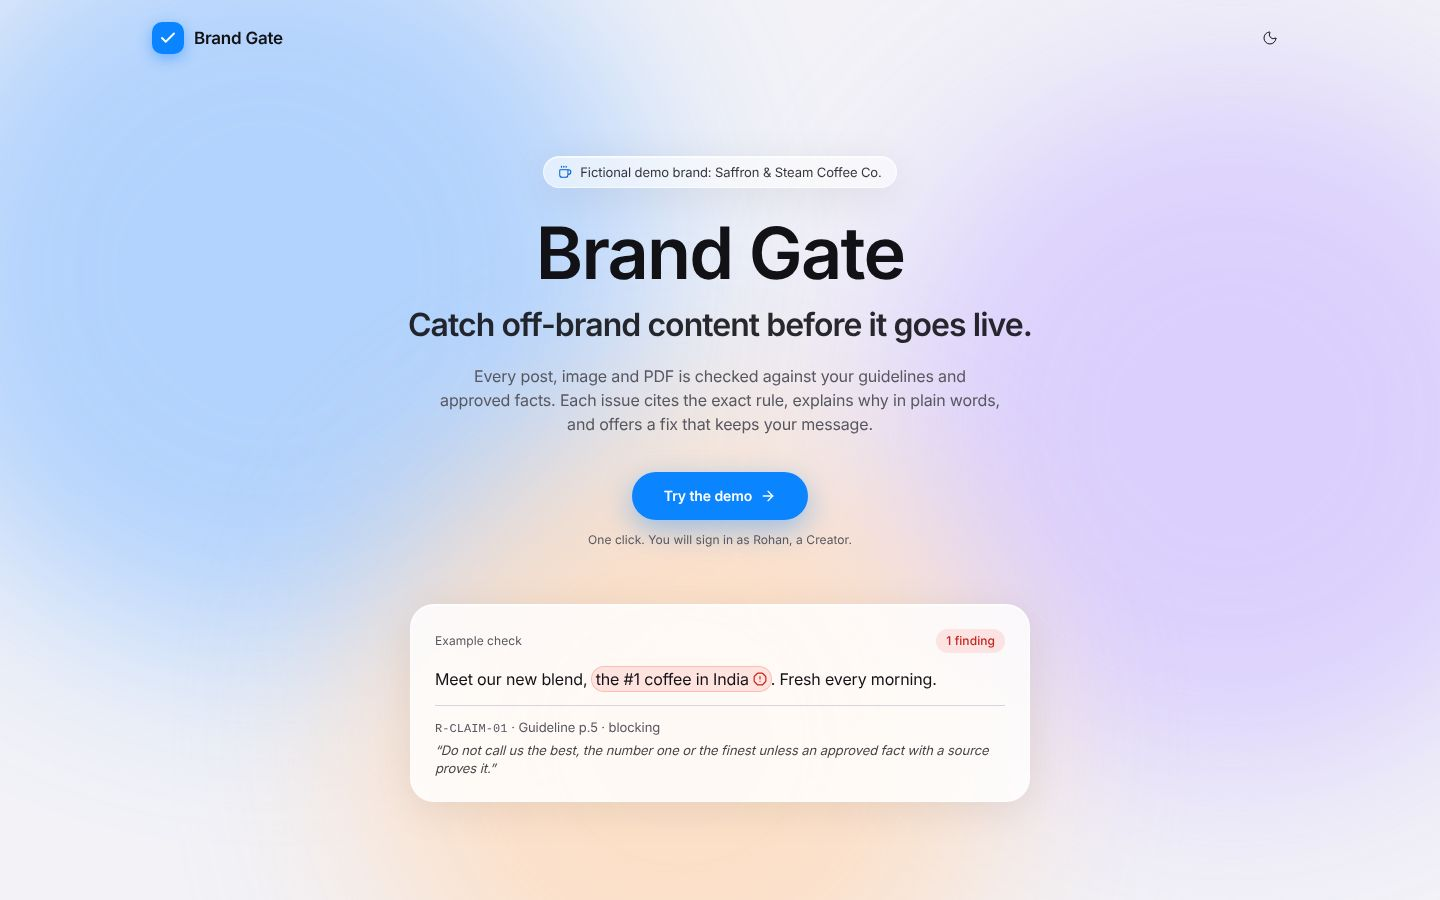
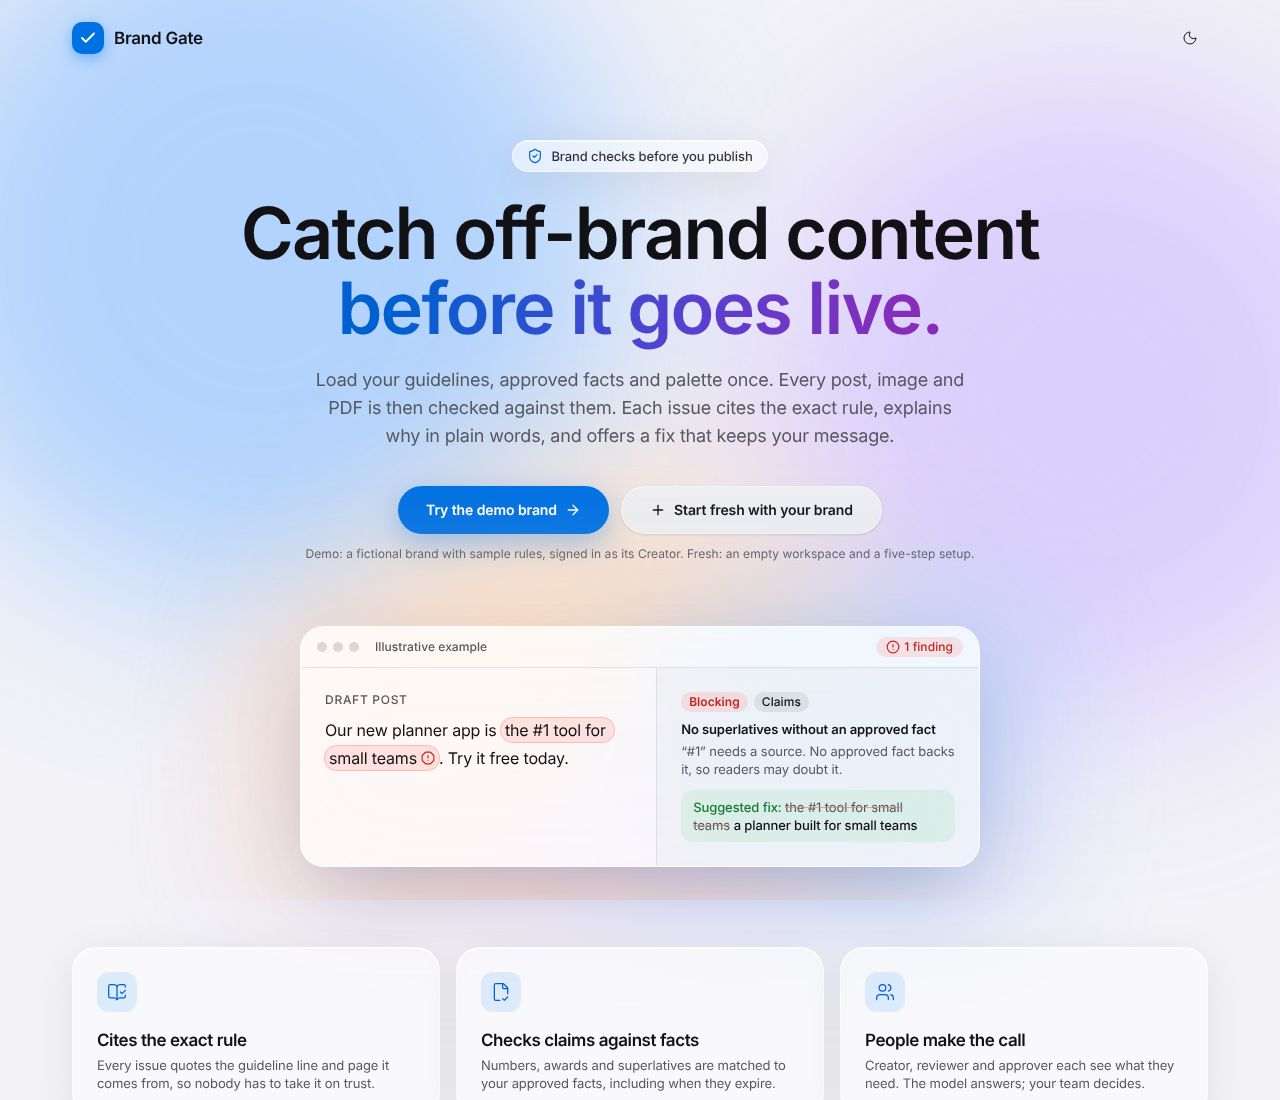
docs: README and NOTICE match the live build (workspaces, start fresh, Render, credits)

Changed region(s): [[0.0, 0.1244, 0.9062, 1.0], [0.0312, 0.0, 0.1875, 0.0622], [0.875, 0.7156, 0.9688, 0.7778]]

diff --git a/README.md b/README.md
@@ -6,13 +6,13 @@ A company loads its brand rules, approved facts, colour palette and logo once. E
 
 Built for CodeNexus India 2026, problem statement by Inkloom AI (brand-governance platform).
 
-Live app: <link added at deployment>
+Live app: https://brand-gate.onrender.com (free hosting: if it has been idle, the first page can take about a minute to wake up)
 
 ## 60-second judge walkthrough
 
-Use a private window, so you start signed out.
+Use a private window, so you start signed out. Every visitor gets a private workspace (its own copy of the data), so nothing you do is seen by other judges, and **Reset** only resets yours.
 
-1. Click **Try the demo**. This signs you in as Rohan (Creator) and opens a flawed Instagram caption on the New content page.
+1. Click **Try the demo brand**. This signs you in as Rohan (Creator) of a fictional demo brand and opens a flawed Instagram caption on the New content page.
 2. Click **Check**. The live meter runs, and findings stream in with their band, probability, rule ID and page.
 3. Open a finding and accept its fix. The fix shows as a before and after diff, with a "verified" badge when the self-check passed.
 4. Click **Resubmit as version 2**. The accepted fixes are applied and the check runs again. The version has fewer findings, and the diff shows what changed.
@@ -21,6 +21,20 @@ Use a private window, so you start signed out.
 7. Switch role to **Kabir** (Approver) and click **Approve**.
 8. Still as Kabir, open the seeded item he created and try to approve it. The button is disabled, and the server refuses with a message.
 9. Open the **Dashboard** (counts and charts from the seeded data and your check), the **Brand Kit** (rules, words, palette and logo, facts) and the **Evaluation** page (results from the last evaluation run).
+
+### Try it with your own brand
+
+Click **Start fresh with your brand** on the landing page. You get an empty workspace and a five-step setup, all optional:
+
+1. Name, tagline and a one-line description.
+2. Colours (pickers or hex) and your logo (PNG or JPEG). The logo is used by the logo check.
+3. Rules: import your guideline PDF (rules are proposed with the quote and page, and each quote is checked against the PDF text), add a 7-rule starter set, or write your own.
+4. Approved facts: upload a CSV (`statement,value,source,valid_until`; a template is offered) or add them one by one.
+5. Banned and preferred words.
+
+Then check your first post. A brand with no rules still gets the word, fact and logo checks, and the item says "Add rules first".
+
+![Setup: colours and logo](docs/screenshots/setup.jpg)
 
 ## What it checks
 
@@ -103,7 +117,7 @@ Open http://localhost:5173. Run the unit tests from `backend/` with `pytest -q`.
 
 ### Environment variables
 
-Names only, from `.env.example`. Set them in `.env` locally, or as secrets on a Hugging Face Space.
+Names only, from `.env.example`. Set them in `.env` locally, or as secret environment variables on your host (the live app runs on Render).
 
 - `TYPESAFE_API_KEY`: Jev key. The SDK reads it automatically.
 - `TYPESAFE_DEFAULT_MODEL`: Jev model name.
@@ -113,6 +127,8 @@ Names only, from `.env.example`. Set them in `.env` locally, or as secrets on a 
 - `SESSION_SECRET`: a long random string. The development default is not safe.
 - `DB_PATH`, `UPLOAD_DIR`: where the SQLite file and uploads are stored.
 - `SEED_DIR`, `FRONTEND_DIST`: optional overrides.
+- `WORKSPACES_DIR`, `MAX_WORKSPACES`, `WORKSPACE_TTL_H`: where per-visitor workspaces live, how many are kept, and how long an idle one lasts.
+- `MAX_CONCURRENT_CHECKS`, `JEV_CONCURRENCY`, `IMAGE_MAX_SIDE`, `SIFT_MAX_SIDE`, `PRERUN_DELAY_S`: memory and speed limits for a small server.
 
 Without `TYPESAFE_API_KEY`, the app still runs. Tier 0 and the local image checks work, and the UI shows a "Jev not configured" notice. Without the LLM key, findings still appear, with template explanations and no rewritten fixes.
 
@@ -135,7 +151,7 @@ The run calls Jev, so set `TYPESAFE_API_KEY` first. It writes `backend/app/eval/
 - **Writing model:** any OpenAI-compatible chat API, through the `openai` Python client. Used only for explanations, fixes and rule extraction.
 - **Files and checks:** pdfplumber (PDF text with page numbers), Pillow and numpy (colours), OpenCV headless, textstat with pyphen (readability), rapidfuzz (quote and fact matching).
 - **Frontend:** React 18, Vite, TypeScript, Tailwind CSS, shadcn/ui, Magic UI, framer-motion, recharts, lucide-react, Inter.
-- **Deployment:** one Docker image (Node 20 builds the frontend, Python 3.12 runs the app) on port 7860. Hugging Face Spaces (Docker SDK).
+- **Deployment:** one Docker image (Node 20 builds the frontend, Python 3.12 runs the app) on port 7860. The live app runs on Render's free tier (512 MiB), with one uvicorn worker.
 
 ## Privacy and responsible AI
 
@@ -149,12 +165,12 @@ The run calls Jev, so set `TYPESAFE_API_KEY` first. It writes `backend/app/eval/
 
 ## Limitations
 
-- **Demo data resets.** Data lives in a SQLite file on the server. A restart or a reset loads the seeded demo data again. On a Hugging Face Space, a restart wipes everything.
-- **Demo sign-in only.** There are no real accounts. Sign-in uses demo users, and the session token is kept in the browser's session storage.
+- **Workspaces are temporary.** Each visitor's workspace is a SQLite file on the server. It is deleted after 12 idle hours, and the free host wipes all of them when it restarts or sleeps after 15 idle minutes. The demo brand is rebuilt automatically.
+- **Demo sign-in only.** There are no real accounts. Sign-in uses demo users per workspace, and the tokens are kept in the browser's session storage and a cookie.
 - **Scanned PDFs are not read.** A PDF with no text layer gets a "No text found" message.
 - **Image judging is early.** Jev's image support is early-stage. If an image call fails, the image gets code-only checks and the finding says so.
 - **Logo authenticity is not checked by Jev.** Jev has no copy of the official logo, so a redrawn logo is not caught by the Jev checks.
-- **Evaluation labels are being re-labelled.** A team member is re-labelling the evaluation items. Until that finishes, treat the Evaluation numbers as provisional.
+- **Evaluation labels are drafts.** All 60 evaluation items were labelled as drafts with AI help and are being reviewed by the team, and recall on the test split rests on 13 positive labels. Treat the Evaluation numbers as provisional.
 - **Keyword triggers are blunt.** Code flags urgency and claim words even when the wording is correct in context.
 
 ## Team

diff --git a/CLAUDE.md b/CLAUDE.md
@@ -20,7 +20,7 @@ Built for **CodeNexus India 2026, problem statement by Inkloom AI** (brand-gover
 - **Writer model:** DeepSeek through its OpenAI-compatible API (`LLM_BASE_URL=https://api.deepseek.com`, `LLM_MODEL=deepseek-chat`, which is the fast non-thinking mode), called with the `openai` package. Any other OpenAI-compatible provider can be swapped in through env. It is used only for explanations, fixes and rule extraction.
 - **Files:** `pdfplumber` (PDF text with page numbers), Pillow + numpy (colours), `opencv-python-headless` (logo fidelity), `textstat` (readability), `rapidfuzz` (quote verification, fact matching).
 - **Frontend:** React 18 + Vite + TypeScript, Tailwind CSS, shadcn/ui, Magic UI components, framer-motion, recharts, lucide-react. Built to static files and served by FastAPI, so there is **one container and one URL**.
-- **Deploy:** Docker on Hugging Face Spaces (port 7860). Render is the backup.
+- **Deploy:** Docker on Render free tier (port 7860, 512 MiB). Hugging Face Docker Spaces now need a paid plan.
 
 No Redis, no Supabase, no Next.js server, no vector DB in Round 2. Keyword matching is enough for a few dozen facts. These changes from the Round 1 plan are deliberate and explained in the Round 2 PDF.
 

diff --git a/NOTICE.md b/NOTICE.md
@@ -25,3 +25,14 @@
 | framer-motion | MIT |
 | recharts | MIT |
 | lucide-react | ISC |
+| Inter font | SIL Open Font License 1.1 |
+
+## Ideas and methods we borrowed (no code copied)
+
+| Source | What we took |
+|---|---|
+| packfix | The method for logo fidelity: SIFT keypoints matched to the approved logo, then a RANSAC homography |
+| jev-adrank | A reference for calling Jev with typed questions |
+| brand-fidelity-rules | Templates for writing brand rules as single checkable statements |
+| MiroFish | The idea of a simulated audience reacting to content. MiroFish is AGPL-3.0; none of its code is used |
+
